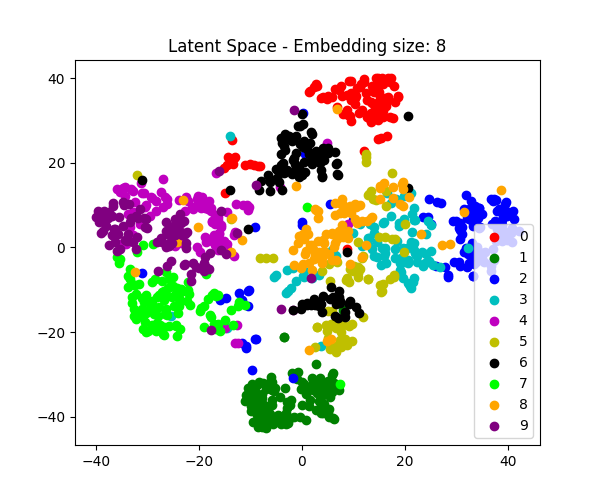
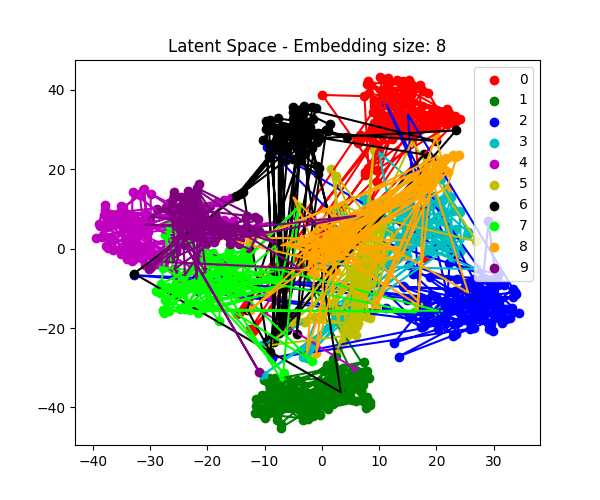
Plot loss

diff --git a/Homework 08/Training.py b/Homework 08/Training.py
@@ -6,9 +6,6 @@ import numpy as np
 from ConvolutionalAutoencoder.Autoencoder import * 
 
 import matplotlib.pyplot as plt
-from matplotlib import gridspec
-
-from sklearn import datasets
 from sklearn.manifold import TSNE
 
 def main():
@@ -30,7 +27,6 @@ def main():
     for embedding_size in embedding_sizes:
 
         print(f"Embedding size: {embedding_size}")
-
 
         # Initialize the model.
         for elem in train_dataset.take(1):
@@ -56,9 +52,9 @@ def main():
         train_loss  = model.test(train_dataset, mse)
         train_losses.append(train_loss)
 
-        model.summary()
-        model.encoder.summary()
-        model.decoder.summary()
+        # model.summary()
+        # model.encoder.summary()
+        # model.decoder.summary()
        
    
         # We train for num_epochs epochs.
@@ -81,6 +77,19 @@ def main():
         #############
         # Plotting
         #############
+
+        # Loss
+        x = range(0, len(train_losses))
+        plt.figure()
+        plt.title(f"Train and test losses - Embedding size: {embedding_size}")
+        plt.plot(x, train_losses, 'r', label="Train")
+        plt.plot(x, test_losses, 'b', label= "Test")
+        plt.xticks(x)
+        plt.xlabel("Epoch")
+        plt.ylabel("Loss")
+        plt.legend(loc="upper right")
+        plt.tight_layout()
+        plt.savefig(f"./ConvolutionalAutoencoder/Plots/Loss/EmbeddingSize_{embedding_size}.png")
 
         # Plot orginal, noised and denoised image
         print(f"Create plot for embedding size {embedding_size}")
@@ -179,6 +188,7 @@ def main():
         colors = 'r', 'g', 'b', 'c', 'm', 'y', 'k', 'lime', 'orange', 'purple'
         for i, c, label in zip(range(0,10), colors, np.arange(0,11)):
             plt.scatter(X_2d[y == i, 0], X_2d[y == i, 1], c=c, label=label)
+            plt.plot(X_2d[y == i, 0], X_2d[y == i, 1], c=c)
         
         plt.title(f"Latent Space - Embedding size: {embedding_size}")
         plt.legend()
